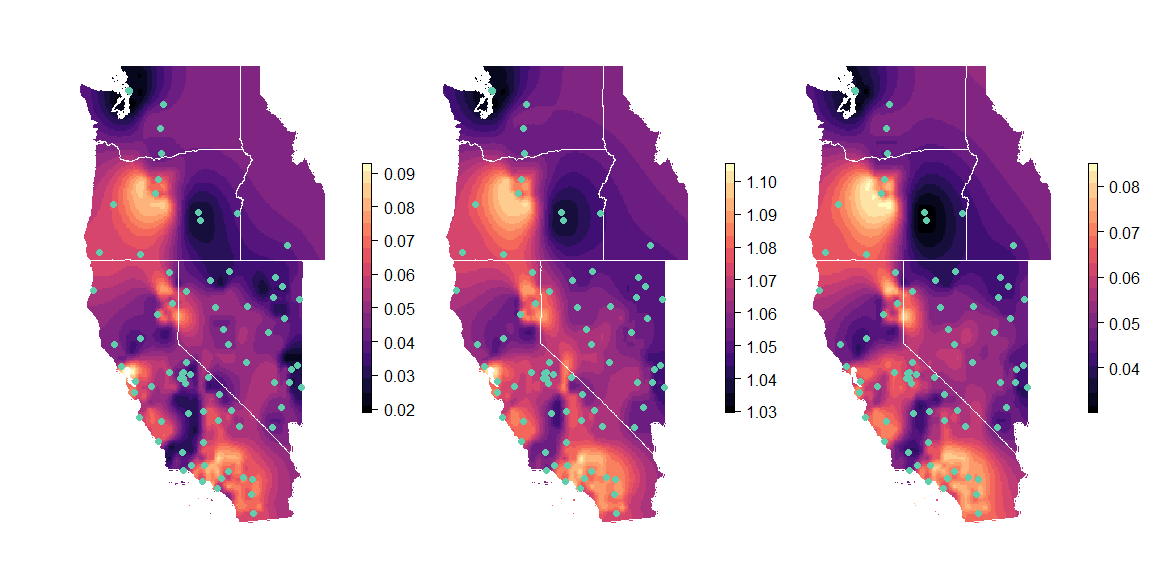
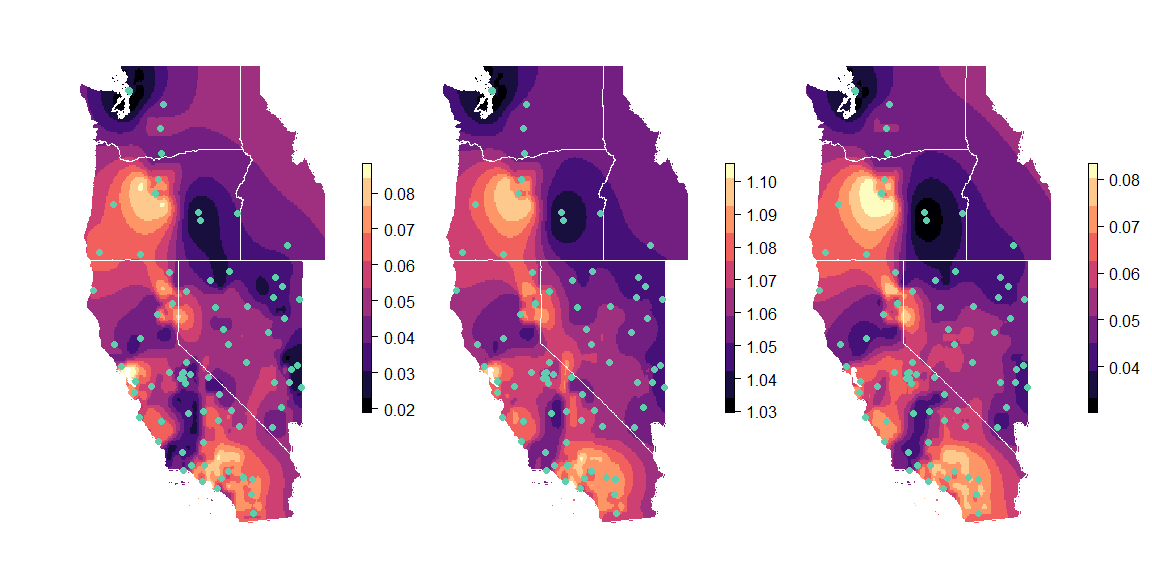
update empirical notebook

diff --git a/paperex/empex/empex_notebook.md b/paperex/empex/empex_notebook.md
@@ -1,4 +1,4 @@
-Empirical Example
+Empirical Example from Bishop et al. (in review)
 ================
 
 ``` r
@@ -18,14 +18,22 @@ source(here(wdir, "empex_functions.R"))
 
 # Empirical Dataset
 
-Data used in this example is from Bouzid et al. (2022):
-<https://doi.org/10.5061/dryad.n5tb2rbv2>
+Data used in this example is from [Bouzid et
+al. (2022)](https://doi.org/10.5061/dryad.n5tb2rbv2)
 
 **Bouzid, N. M., Archie, J. W., Anderson, R. A., Grummer, J. A., &
 Leaché, A. D. (2022). Evidence for ephemeral ring species formation
-during the diversification history of western fence lizards ( Sceloporus
-occidentalis ). Molecular Ecology, 31(2), 620–631.
+during the diversification history of western fence lizards (Sceloporus
+occidentalis). Molecular Ecology, 31(2), 620–631.
 <https://doi.org/10.1111/mec.15836>**
+
+The vcf used in this example was created from the ped and map file from
+Bouzid et al. 2022 using Plink (this is not run as part of the notebook,
+but we provide the code below).
+
+``` bash
+./plink --file populations_r20.haplotypes.filtered_m70_randomSNP --recode vcf-fid --out populations_r20.haplotypes.filtered_m70_randomSNP
+```
 
 ``` r
 # Genetic data
@@ -93,9 +101,9 @@ plot(NUS, col = mako(1, begin = 0.7), border = "white", lwd = 2, main = "")
 
 ## Run wingen analysis
 
-First, different parameter combinations are evaluated. Here we vary the
-window size (wdim), the raster resolutions (disagg), and the rarefaction
-size (rarify_n) to get the plots from Figure S4
+First, different parameter combinations are evaluated. Here, we vary the
+window size (`wdim`), the raster resolutions (`disagg`), and the
+rarefaction size (`rarify_n`) to get the plots from Figure S4.
 
 ``` r
 params <- df_to_ls(expand.grid(disagg = c(4, 3, 2), wdim = c(3, 5), rarify_n = c(2, 3, 4)))
@@ -108,7 +116,7 @@ purrr::walk(stk, test_empex_plot, bkg = NUS, zlim = c(0.02, 0.11))
 
 ![](empex_notebook_files/figure-gfm/unnamed-chunk-6-1.png)<!-- -->![](empex_notebook_files/figure-gfm/unnamed-chunk-6-2.png)<!-- -->![](empex_notebook_files/figure-gfm/unnamed-chunk-6-3.png)<!-- -->
 
-Based on the results above we chose a final set of parameters:
+Based on the results above, we chose a final set of parameters:
 
 ``` r
 # set parameters 
@@ -127,17 +135,17 @@ the resulting rasters:
 # Run moving window
 set.seed(22)
 st <- Sys.time()
-hg <- window_gd(vcf, coords, lyr, stat = "Ho", wdim = wdim, fact = fact, rarify = TRUE, rarify_n = 2, rarify_nit = 5)
-Sys.time() - st
-
-set.seed(22)
-st <- Sys.time()
 pg <- window_gd(vcf, coords, lyr, stat = "pi", wdim = wdim, fact = fact, rarify = TRUE, rarify_n = 2, rarify_nit = 5)
 Sys.time() - st
 
 set.seed(22)
 st <- Sys.time()
 ag <- window_gd(vcf, coords, lyr, stat = "biallelic_richness", wdim = wdim, fact = fact, rarify = TRUE, rarify_n = 2, rarify_nit = 5)
+Sys.time() - st
+
+set.seed(22)
+st <- Sys.time()
+hg <- window_gd(vcf, coords, lyr, stat = "Ho", wdim = wdim, fact = fact, rarify = TRUE, rarify_n = 2, rarify_nit = 5)
 Sys.time() - st
 
 # Krige and mask layers
@@ -155,16 +163,15 @@ mhg <- mask(khg, NUS)
 
 ``` r
 par(mfrow = c(1,3), mar = rep(0.5,4), oma = rep(2.5,4))
-plot_gd(mpg, legend.width = 2,  axis.args = list(cex.axis = 1.5))
-
+plot_gd(mpg, legend.width = 2,  breaks = 10, axis.args = list(cex.axis = 1.5))
 plot(NUS, add = TRUE, col = NA, border = "white")
 points(coords, pch = 16, col = mako(1, begin = 0.8), cex = 1.5)
 
-plot_gd(mag, legend.width = 2,  axis.args = list(cex.axis = 1.5))
+plot_gd(mag, legend.width = 2, breaks = 10, axis.args = list(cex.axis = 1.5))
 plot(NUS, add = TRUE, col = NA, border = "white")
 points(coords, pch = 16, col = mako(1, begin = 0.8), cex = 1.5)
 
-plot_gd(mhg, legend.width = 2,  axis.args = list(cex.axis = 1.5))
+plot_gd(mhg, legend.width = 2, breaks = 10, axis.args = list(cex.axis = 1.5))
 plot(NUS, add = TRUE, col = NA, border = "white")
 points(coords, pch = 16, col = mako(1, begin = 0.8), cex = 1.5)
 ```
